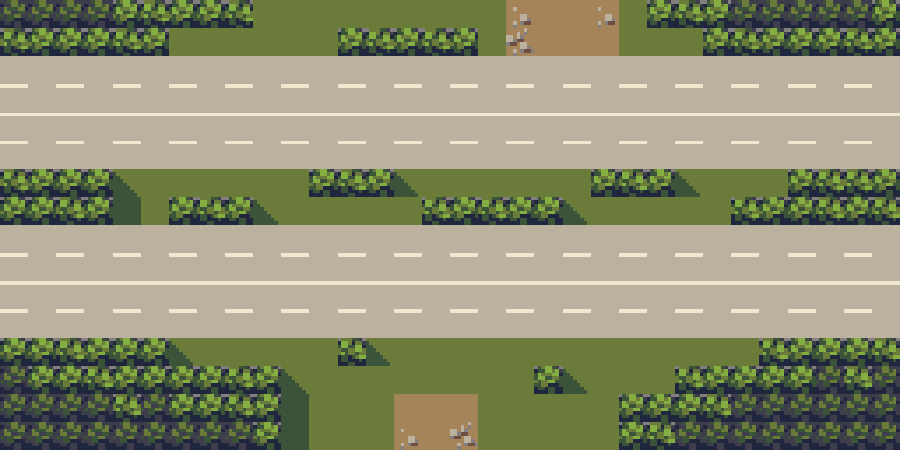
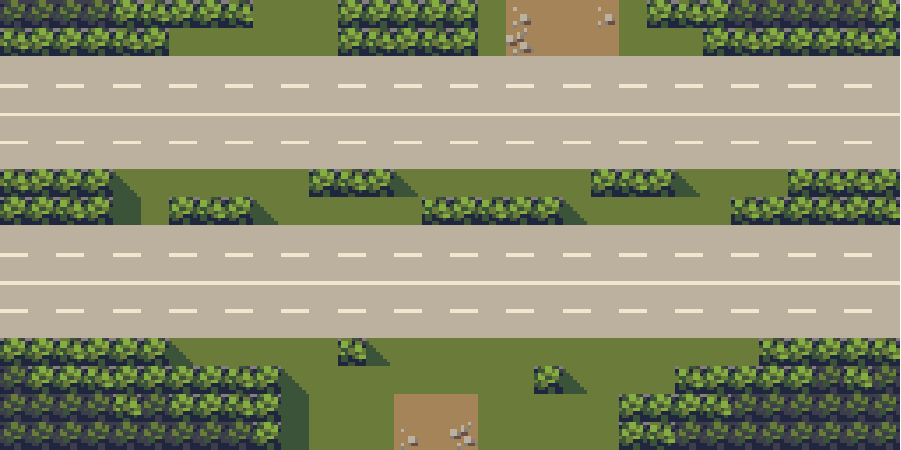
v10

Changed region(s): [[0.3729, 0.0, 0.5283, 0.0622]]

diff --git a/app/src/main/java/com/example/juego/Trafico.java b/app/src/main/java/com/example/juego/Trafico.java
@@ -25,11 +25,11 @@ public class Trafico {
 
     int anchoCoche;
     int altoCoche;
-    int velocidadCoche;
+    float velocidadCoche;
 
     Paint p;
 
-    public Trafico(Bitmap[] imgCochesRight, Bitmap[] imgCochesLeft, int velocidadCoche, int anchoPantalla, int altoPantalla) {
+    public Trafico(Bitmap[] imgCochesRight, Bitmap[] imgCochesLeft, float velocidadCoche, int anchoPantalla, int altoPantalla) {
         coches = new Coche[16];
 
         this.anchoPantalla = anchoPantalla;
@@ -37,6 +37,7 @@ public class Trafico {
 
         this.anchoCoche = anchoPantalla/32;
         this.altoCoche = altoPantalla/16;
+
         this.velocidadCoche = velocidadCoche;
 
         setImgCochesRight(imgCochesRight);
@@ -57,27 +58,27 @@ public class Trafico {
         return posicionesCoches;
     }
 
-    public void setCoches(int numFondo, int vel) {
+    public void setCoches(int numFondo, float vel) {
         if(numFondo == 0){
-            coches[0] = new Coche(getImgCochesRight()[(int)(Math.random()*5)], anchoPantalla / 2, altoPantalla / 16 * 11, vel);
-            coches[1] = new Coche(getImgCochesLeft()[(int)(Math.random()*5)], anchoPantalla / 5, altoPantalla / 16 * 10, vel);
-            coches[2] = new Coche(getImgCochesRight()[(int)(Math.random()*5)], -anchoCoche, altoPantalla / 16 * 11, vel);
-            coches[3] = new Coche(getImgCochesLeft()[(int)(Math.random()*5)], anchoPantalla, altoPantalla / 16 * 10, vel);
+            coches[0] = new Coche(imgCochesRight[(int)(Math.random()*5)], anchoPantalla / 2, altoPantalla / 16 * 11, vel);
+            coches[1] = new Coche(imgCochesLeft[(int)(Math.random()*5)], anchoPantalla / 5, altoPantalla / 16 * 10, vel);
+            coches[2] = new Coche(imgCochesRight[(int)(Math.random()*5)], -anchoCoche, altoPantalla / 16 * 11, vel);
+            coches[3] = new Coche(imgCochesLeft[(int)(Math.random()*5)], anchoPantalla, altoPantalla / 16 * 10, vel);
 
-            coches[4] = new Coche(getImgCochesRight()[(int)(Math.random()*5)], anchoPantalla / 7, altoPantalla / 16 * 8, vel);
-            coches[5] = new Coche(getImgCochesLeft()[(int)(Math.random()*5)], anchoPantalla, altoPantalla / 16 * 7, vel);
-            coches[6] = new Coche(getImgCochesRight()[(int)(Math.random()*5)], anchoPantalla, altoPantalla / 16 * 8, vel);
-            coches[7] = new Coche(getImgCochesLeft()[(int)(Math.random()*5)], anchoPantalla/2, altoPantalla / 16 * 7, vel);
+            coches[4] = new Coche(imgCochesRight[(int)(Math.random()*5)], anchoPantalla / 7, altoPantalla / 16 * 8, vel);
+            coches[5] = new Coche(imgCochesLeft[(int)(Math.random()*5)], anchoPantalla, altoPantalla / 16 * 7, vel);
+            coches[6] = new Coche(imgCochesRight[(int)(Math.random()*5)], anchoPantalla, altoPantalla / 16 * 8, vel);
+            coches[7] = new Coche(imgCochesLeft[(int)(Math.random()*5)], anchoPantalla/2, altoPantalla / 16 * 7, vel);
 
-            coches[8] = new Coche(getImgCochesRight()[(int)(Math.random()*5)], -anchoCoche, altoPantalla / 16 * 4, vel);
-            coches[9] = new Coche(getImgCochesLeft()[(int)(Math.random()*5)], anchoPantalla, altoPantalla / 16 * 3, vel);
-            coches[10] = new Coche(getImgCochesRight()[(int)(Math.random()*5)], anchoPantalla/2, altoPantalla / 16 * 4, vel);
-            coches[11] = new Coche(getImgCochesLeft()[(int)(Math.random()*5)], anchoPantalla/3, altoPantalla / 16 * 3, vel);
+            coches[8] = new Coche(imgCochesRight[(int)(Math.random()*5)], -anchoCoche, altoPantalla / 16 * 4, vel);
+            coches[9] = new Coche(imgCochesLeft[(int)(Math.random()*5)], anchoPantalla, altoPantalla / 16 * 3, vel);
+            coches[10] = new Coche(imgCochesRight[(int)(Math.random()*5)], anchoPantalla/2, altoPantalla / 16 * 4, vel);
+            coches[11] = new Coche(imgCochesLeft[(int)(Math.random()*5)], anchoPantalla/3, altoPantalla / 16 * 3, vel);
 
-            coches[12] = new Coche(getImgCochesRight()[(int)(Math.random()*5)], anchoPantalla / 16, altoPantalla / 16 * 2, vel);
-            coches[13] = new Coche(getImgCochesLeft()[(int)(Math.random()*5)], -anchoCoche, altoPantalla / 16 * 1, vel);
-            coches[14] = new Coche(getImgCochesRight()[(int)(Math.random()*5)], anchoPantalla/3, altoPantalla / 16 * 2, vel);
-            coches[15] = new Coche(getImgCochesLeft()[(int)(Math.random()*5)], anchoPantalla/2, altoPantalla / 16 * 1, vel);
+            coches[12] = new Coche(imgCochesRight[(int)(Math.random()*5)], anchoPantalla / 16, altoPantalla / 16 * 2, vel);
+            coches[13] = new Coche(imgCochesLeft[(int)(Math.random()*5)], -anchoCoche, altoPantalla / 16 * 1, vel);
+            coches[14] = new Coche(imgCochesRight[(int)(Math.random()*5)], anchoPantalla/3, altoPantalla / 16 * 2, vel);
+            coches[15] = new Coche(imgCochesLeft[(int)(Math.random()*5)], anchoPantalla/2, altoPantalla / 16 * 1, vel);
 
         }else if(numFondo == 1){
             coches[8].setY(altoPantalla / 16 * 6);
@@ -90,6 +91,15 @@ public class Trafico {
             coches[14].setY(altoPantalla/16 * 3);
             coches[15].setY(altoPantalla/16 * 2);
 
+            for (int i = 0; i < coches.length; i++) {
+                if(i % 2 == 0){
+                    coches[i].setImagen(imgCochesRight[(int)(Math.random()*5)]);
+                }else{
+                    coches[i].setImagen(imgCochesLeft[(int)(Math.random()*5)]);
+                }
+                coches[i].setVelocidad(vel);
+            }
+
         } else if(numFondo == 2){
             coches[4].setY(altoPantalla / 16 * 9);
             coches[5].setY(altoPantalla / 16 * 8);
@@ -100,6 +110,15 @@ public class Trafico {
             coches[9].setY(altoPantalla /16 * 4);
             coches[10].setY(altoPantalla / 16 * 5);
             coches[11].setY(altoPantalla / 16 * 4);
+
+            for (int i = 0; i < coches.length; i++) {
+                if(i % 2 == 0){
+                    coches[i].setImagen(imgCochesRight[(int)(Math.random()*5)]);
+                }else{
+                    coches[i].setImagen(imgCochesLeft[(int)(Math.random()*5)]);
+                }
+                coches[i].setVelocidad(vel);
+            }
         }
     }
 

diff --git a/app/src/main/java/com/example/juego/Escenario.java b/app/src/main/java/com/example/juego/Escenario.java
@@ -112,6 +112,7 @@ public class Escenario {
                     break;
                 }
             }
+
             if(posValida){
                 for (int i = 0; i < monedasRect.size(); i++) {
                     if(monedasRect.get(i).intersect(new RectF(x, y, x+anchoMoneda, y+altoMoneda))
@@ -249,37 +250,36 @@ public class Escenario {
 
     public void setRectArbolesMapa3(){      //TODO retocar bordes
         //fila1
-        arbolesRect[0] = new RectF(0, propH  * 12, propW  * 6, altoPantalla);
+        arbolesRect[0] = new RectF(0, propH  * 12 * 1.03f, propW  * 6, altoPantalla);
         arbolesRect[1] = new RectF(propW  * 6, propH  * 13 * 1.007f, propW * 10 * 1.01f, altoPantalla);
-        arbolesRect[2] = new RectF(propW  * 12 * 1.015f, propH  * 12 * 1.02f, propW  * 13 , propH * 13);
+        arbolesRect[2] = new RectF(propW  * 12 * 1.03f, propH  * 12 * 1.02f, propW  * 13 , propH * 13);
         arbolesRect[3] = new RectF(propW  * 19 * 1.015f, propH  * 13 * 1.02f, propW  * 20 , propH * 14);
-
-        arbolesRect[4] = new RectF(propW  * 22 * 1.005f, propH  * 14 * 1.02f, propW * 24 * 1.01f, altoPantalla);
+        arbolesRect[4] = new RectF(propW  * 22 * 1.02f, propH  * 14 * 1.02f, propW * 24 * 1.01f, altoPantalla);
         arbolesRect[5] = new RectF(propW  * 24 *1.005f, propH  * 13 * 1.02f, propW * 27, altoPantalla);
-
         arbolesRect[6] = new RectF(propW  * 27 *1.005f, propH  * 12 * 1.02f, anchoPantalla, altoPantalla);
-        arbolesRect[7] = new RectF(0 , propH  * 6, propW * 4 / 1.04f, propH * 8 );
-        arbolesRect[8] = new RectF(propW * 6 * 1.05f, propH  * 7 * 1.03f, propW  * 9 , propH  * 8);
-        arbolesRect[9] = new RectF(propW * 27 , propH * 14 * 1.02f, anchoPantalla, altoPantalla );
 
         //fila2
+        arbolesRect[7] = new RectF(0 , propH  * 6 * 1.07f, propW * 4 / 1.07f, propH * 8 );
+        arbolesRect[8] = new RectF(propW * 6 * 1.07f, propH  * 7 * 1.03f, propW  * 9 , propH  * 8);
+        arbolesRect[9] = new RectF(propW * 27 * 1.07f , propH * 14 * 1.02f, anchoPantalla, altoPantalla );
         arbolesRect[10] = new RectF(propW  * 11 * 1.015f, propH  * 6 * 1.03f, propW * 14 , propH  * 7);
-        arbolesRect[11] = new RectF(propW * 15 *1.015f, propH * 7 * 1.03f, propW * 20, propH * 8 );
-        arbolesRect[12] = new RectF(propW * 21 *1.015f, propH  * 6 * 1.03f, propW * 24 , propH * 7);
+        arbolesRect[11] = new RectF(propW * 15 *1.015f, propH * 7 * 1.03f, propW * 20 / 1.015f, propH * 8 );
+        arbolesRect[12] = new RectF(propW * 21 *1.015f, propH  * 6 * 1.03f, propW * 24 / 1.03f , propH * 7);
         arbolesRect[13] = new RectF(propW * 26 *1.015f, propH  * 7 *1.03f, propW * 28, propH * 8);
-        arbolesRect[14] = new RectF(propW * 28, propH * 6 * 1.015f, anchoPantalla, propH * 8 / 1.03f);
+        arbolesRect[14] = new RectF(propW * 28 * 1.015f, propH * 6 * 1.03f, anchoPantalla, propH * 8 / 1.03f);
 
         //fila3
         arbolesRect[15] = new RectF(0, 0, propW * 6 , propH * 2 / 1.03f );
-        arbolesRect[16] = new RectF(propW  * 6 * 1.015f, 0, propW * 9, propH / 1.03f);
-        arbolesRect[17] = new RectF(propW  * 12 * 1.015f, propH, propW * 17 , propH * 2 / 1.03f);
-        arbolesRect[18] = new RectF(propW * 23, 0, propW * 25 / 1.015f, propH / 1.07f);
+        arbolesRect[16] = new RectF(propW  * 6 * 1.03f, 0, propW * 9, propH / 1.03f);
+        arbolesRect[17] = new RectF(propW  * 12 * 1.03f, 0, propW * 17 , propH * 2 / 1.03f);
+        arbolesRect[18] = new RectF(propW * 23 * 1.03f, 0, propW * 25 / 1.015f, propH / 1.07f);
         arbolesRect[19] = new RectF(propW * 25* 1.01f, 0, anchoPantalla, propH * 2);
 
         //rect de victoria /final
-        arbolesRect[20] = new RectF(propW  * 18 , 0, propW * 4, propH * 2 / 1.03f);
+        //arbolesRect[20] = new RectF(propW  * 18 , 0, propW * 22, propH * 2 / 1.03f);
 
         //No son necesarios
+        arbolesRect[20] = new RectF(0,0,0,0);
         arbolesRect[21] =  new RectF(0,0,0,0);
         arbolesRect[22] = new RectF(0,0,0,0);
         arbolesRect[23] = new RectF(0,0,0,0);

diff --git a/app/src/main/java/com/example/juego/Pantalla.java b/app/src/main/java/com/example/juego/Pantalla.java
@@ -79,7 +79,12 @@ public class Pantalla extends SurfaceView implements SurfaceHolder.Callback {
                     controles.vidas--;
                     //TODO vibración+sonido
                 }
+                //Cando coche colisión deixe de interset o xogador, xa podería volver colisionar
+                if(cocheColision != -1 && !trafico.coches[cocheColision].rectangulo.intersect(gato.rectangulo)){
+                    cocheColision = -1;
+                }
             }
+
         }
     }
 
@@ -150,16 +155,20 @@ public class Pantalla extends SurfaceView implements SurfaceHolder.Callback {
                         colisionMonedas();
 
                         //TODO crear una función para esto
-                        if(escenario.numFondo < escenario.fondos.length){
+                        //if(escenario.numFondo < escenario.fondos.length){
                             if(gato.getPosicionFutura(mov).intersect(new RectF(anchoPantalla/32 *14, 0,
                                     anchoPantalla/32*17, 0))){
                                 escenario.numFondo++;
                                 escenario.setFondos(escenario.numFondo);
                                 gato.setX(gato.getX());
                                 gato.setY(altoPantalla/16*15);
-                                trafico.setCoches(escenario.numFondo, trafico.velocidadCoche+5);
+                                Log.i("vel", trafico.velocidadCoche+"");
+                                trafico.velocidadCoche += anchoPantalla / (32*30);
+                                //FIXME en tamaños pequeños de pantalla no aumenta velocidad
+                                trafico.setCoches(escenario.numFondo, trafico.velocidadCoche);
+                                Log.i("vel", trafico.velocidadCoche+"");
                             }
-                        }
+                        //}
                     }
                     break;
                 case MotionEvent.ACTION_UP:
@@ -285,10 +294,10 @@ public class Pantalla extends SurfaceView implements SurfaceHolder.Callback {
                 }
 
                 bitmapGato = escala( R.drawable.gato, (anchoPantalla/32)*4, (altoPantalla/16)*6);
-                gato = new Gato(bitmapGato, anchoPantalla/2-1, altoPantalla/16*14, 15);
+                gato = new Gato(bitmapGato, anchoPantalla/2-1, altoPantalla/16*14, anchoPantalla / (32*2));
 
                 escalaCoches();
-                trafico = new Trafico(imgCochesRight, imgCochesLeft, velocidadCoches, anchoPantalla, altoPantalla);
+                trafico = new Trafico(imgCochesRight, imgCochesLeft, anchoPantalla / (32 * 10), anchoPantalla, altoPantalla);
 
                 moneda = escala( R.drawable.moneda, anchoPantalla/32*5, altoPantalla/16);
                 escenario = new Escenario(fondo, moneda, 0, anchoPantalla, altoPantalla);
@@ -305,7 +314,7 @@ public class Pantalla extends SurfaceView implements SurfaceHolder.Callback {
 
         this.anchoCoche = anchoPantalla/32;
         this.altoCoche = altoPantalla/16;
-        Log.i("dim coches ", anchoCoche+","+altoCoche);
+        //Log.i("dim coches ", anchoCoche+","+altoCoche);
 
         imgCochesLeft[0] = escala(R.drawable.blue_car_left, anchoCoche, altoCoche);
         imgCochesLeft[1] = escala(R.drawable.green_car_left, anchoCoche, altoCoche);

diff --git a/app/src/main/java/com/example/juego/Coche.java b/app/src/main/java/com/example/juego/Coche.java
@@ -10,20 +10,21 @@ public class Coche {
     public PointF posicion;
     float x;
     float y;
+
     public Bitmap imagen;
     public RectF rectangulo;
     int anchoCoche;
     int altoCoche;
-    int velocidad;
+    float velocidad;
 
-    public Coche(Bitmap imagen, float x, float y, int velocidad) {
-        this.imagen = imagen;
+    public Coche(Bitmap imagen, float x, float y, float velocidad) {
+        setImagen(imagen);
         this.posicion = new PointF(x, y);
         setX(x);
         setY(y);
         this.anchoCoche = imagen.getWidth();
         this.altoCoche = imagen.getHeight();
-        this.velocidad = velocidad;
+        setVelocidad(velocidad);
     }
 
     public float getX() {
@@ -44,6 +45,22 @@ public class Coche {
         this.y = y;
         posicion.y = y;
         setRectangulo();
+    }
+
+    public float getVelocidad() {
+        return velocidad;
+    }
+
+    public void setVelocidad(float velocidad) {
+        this.velocidad = velocidad;
+    }
+
+    public Bitmap getImagen() {
+        return imagen;
+    }
+
+    public void setImagen(Bitmap imagen) {
+        this.imagen = imagen;
     }
 
     public void setRectangulo() {

diff --git a/app/src/main/java/com/example/juego/Controles.java b/app/src/main/java/com/example/juego/Controles.java
@@ -78,7 +78,7 @@ public class Controles {
         pPuntuacion.setAlpha(150);
 
         tpaint = new TextPaint();
-        tpaint.setTextSize(50); // tamaño del texto en pixels
+        tpaint.setTextSize(anchoPantalla / (32*1.5f)); // tamaño del texto en pixels
         //tpaint.setTextAlign(Paint.Align.CENTER); // Alineación del texto
         tpaint.setColor(Color.BLACK); // Color del texto
     }
